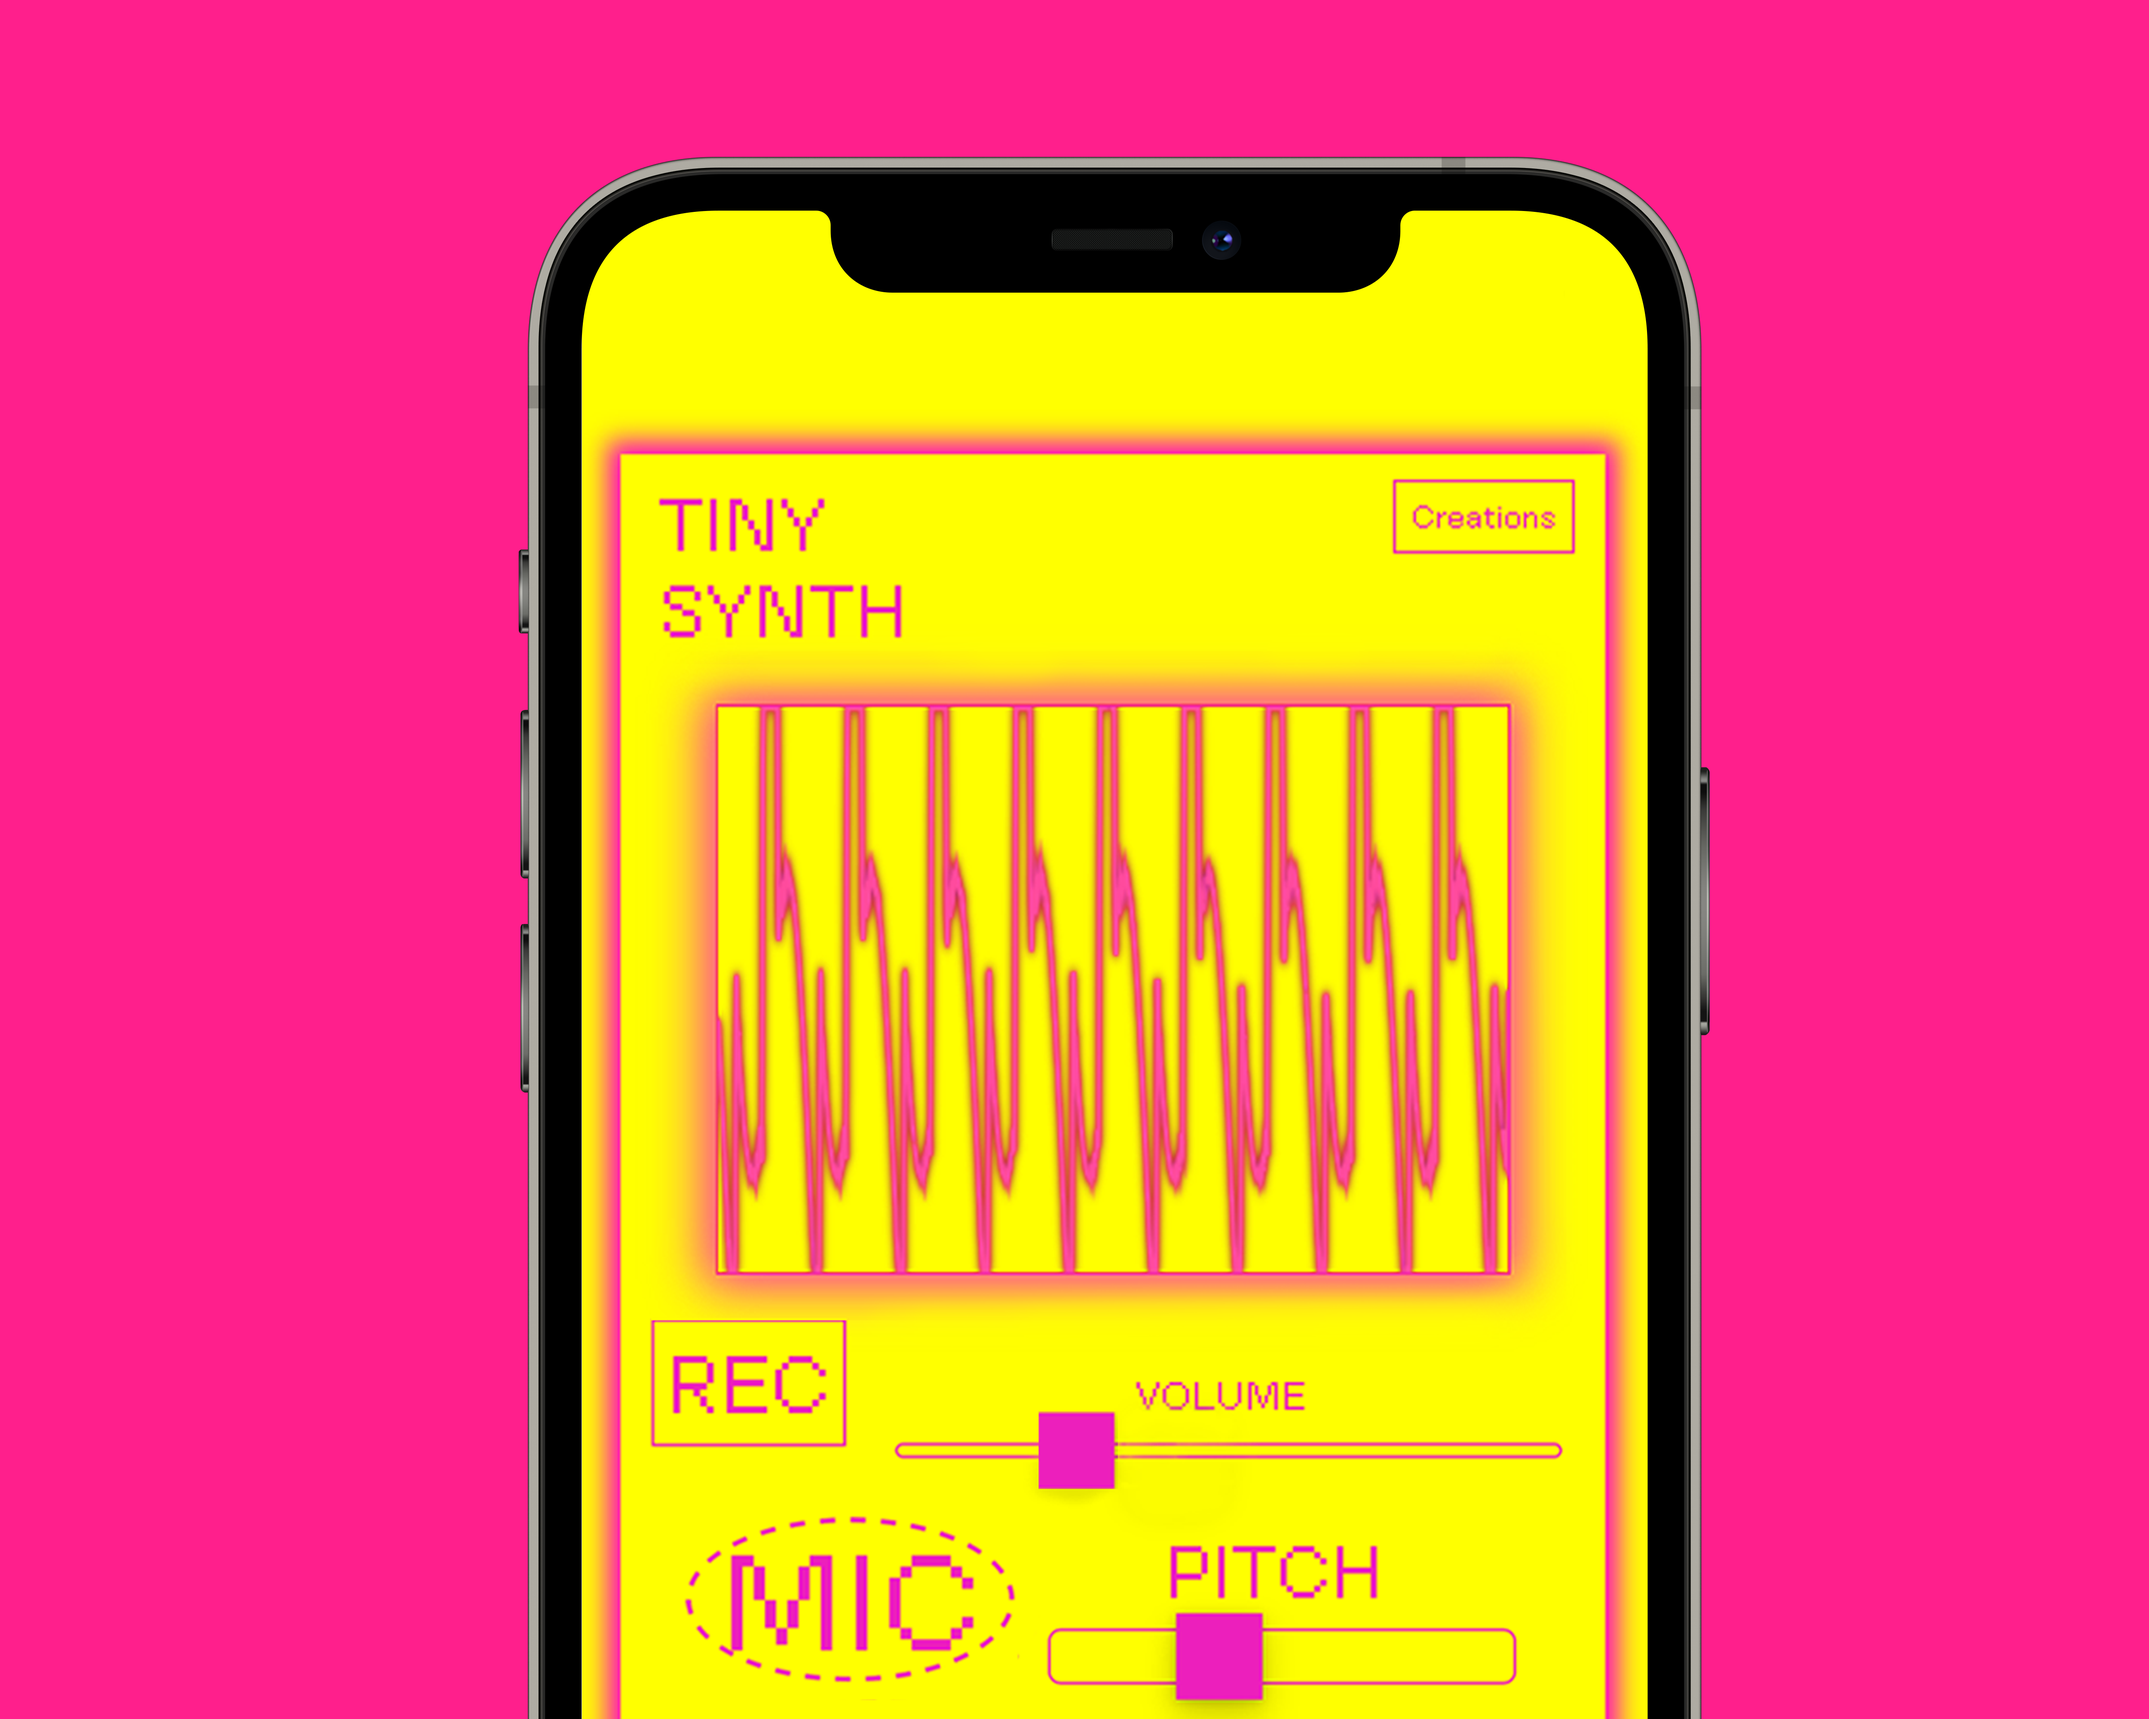
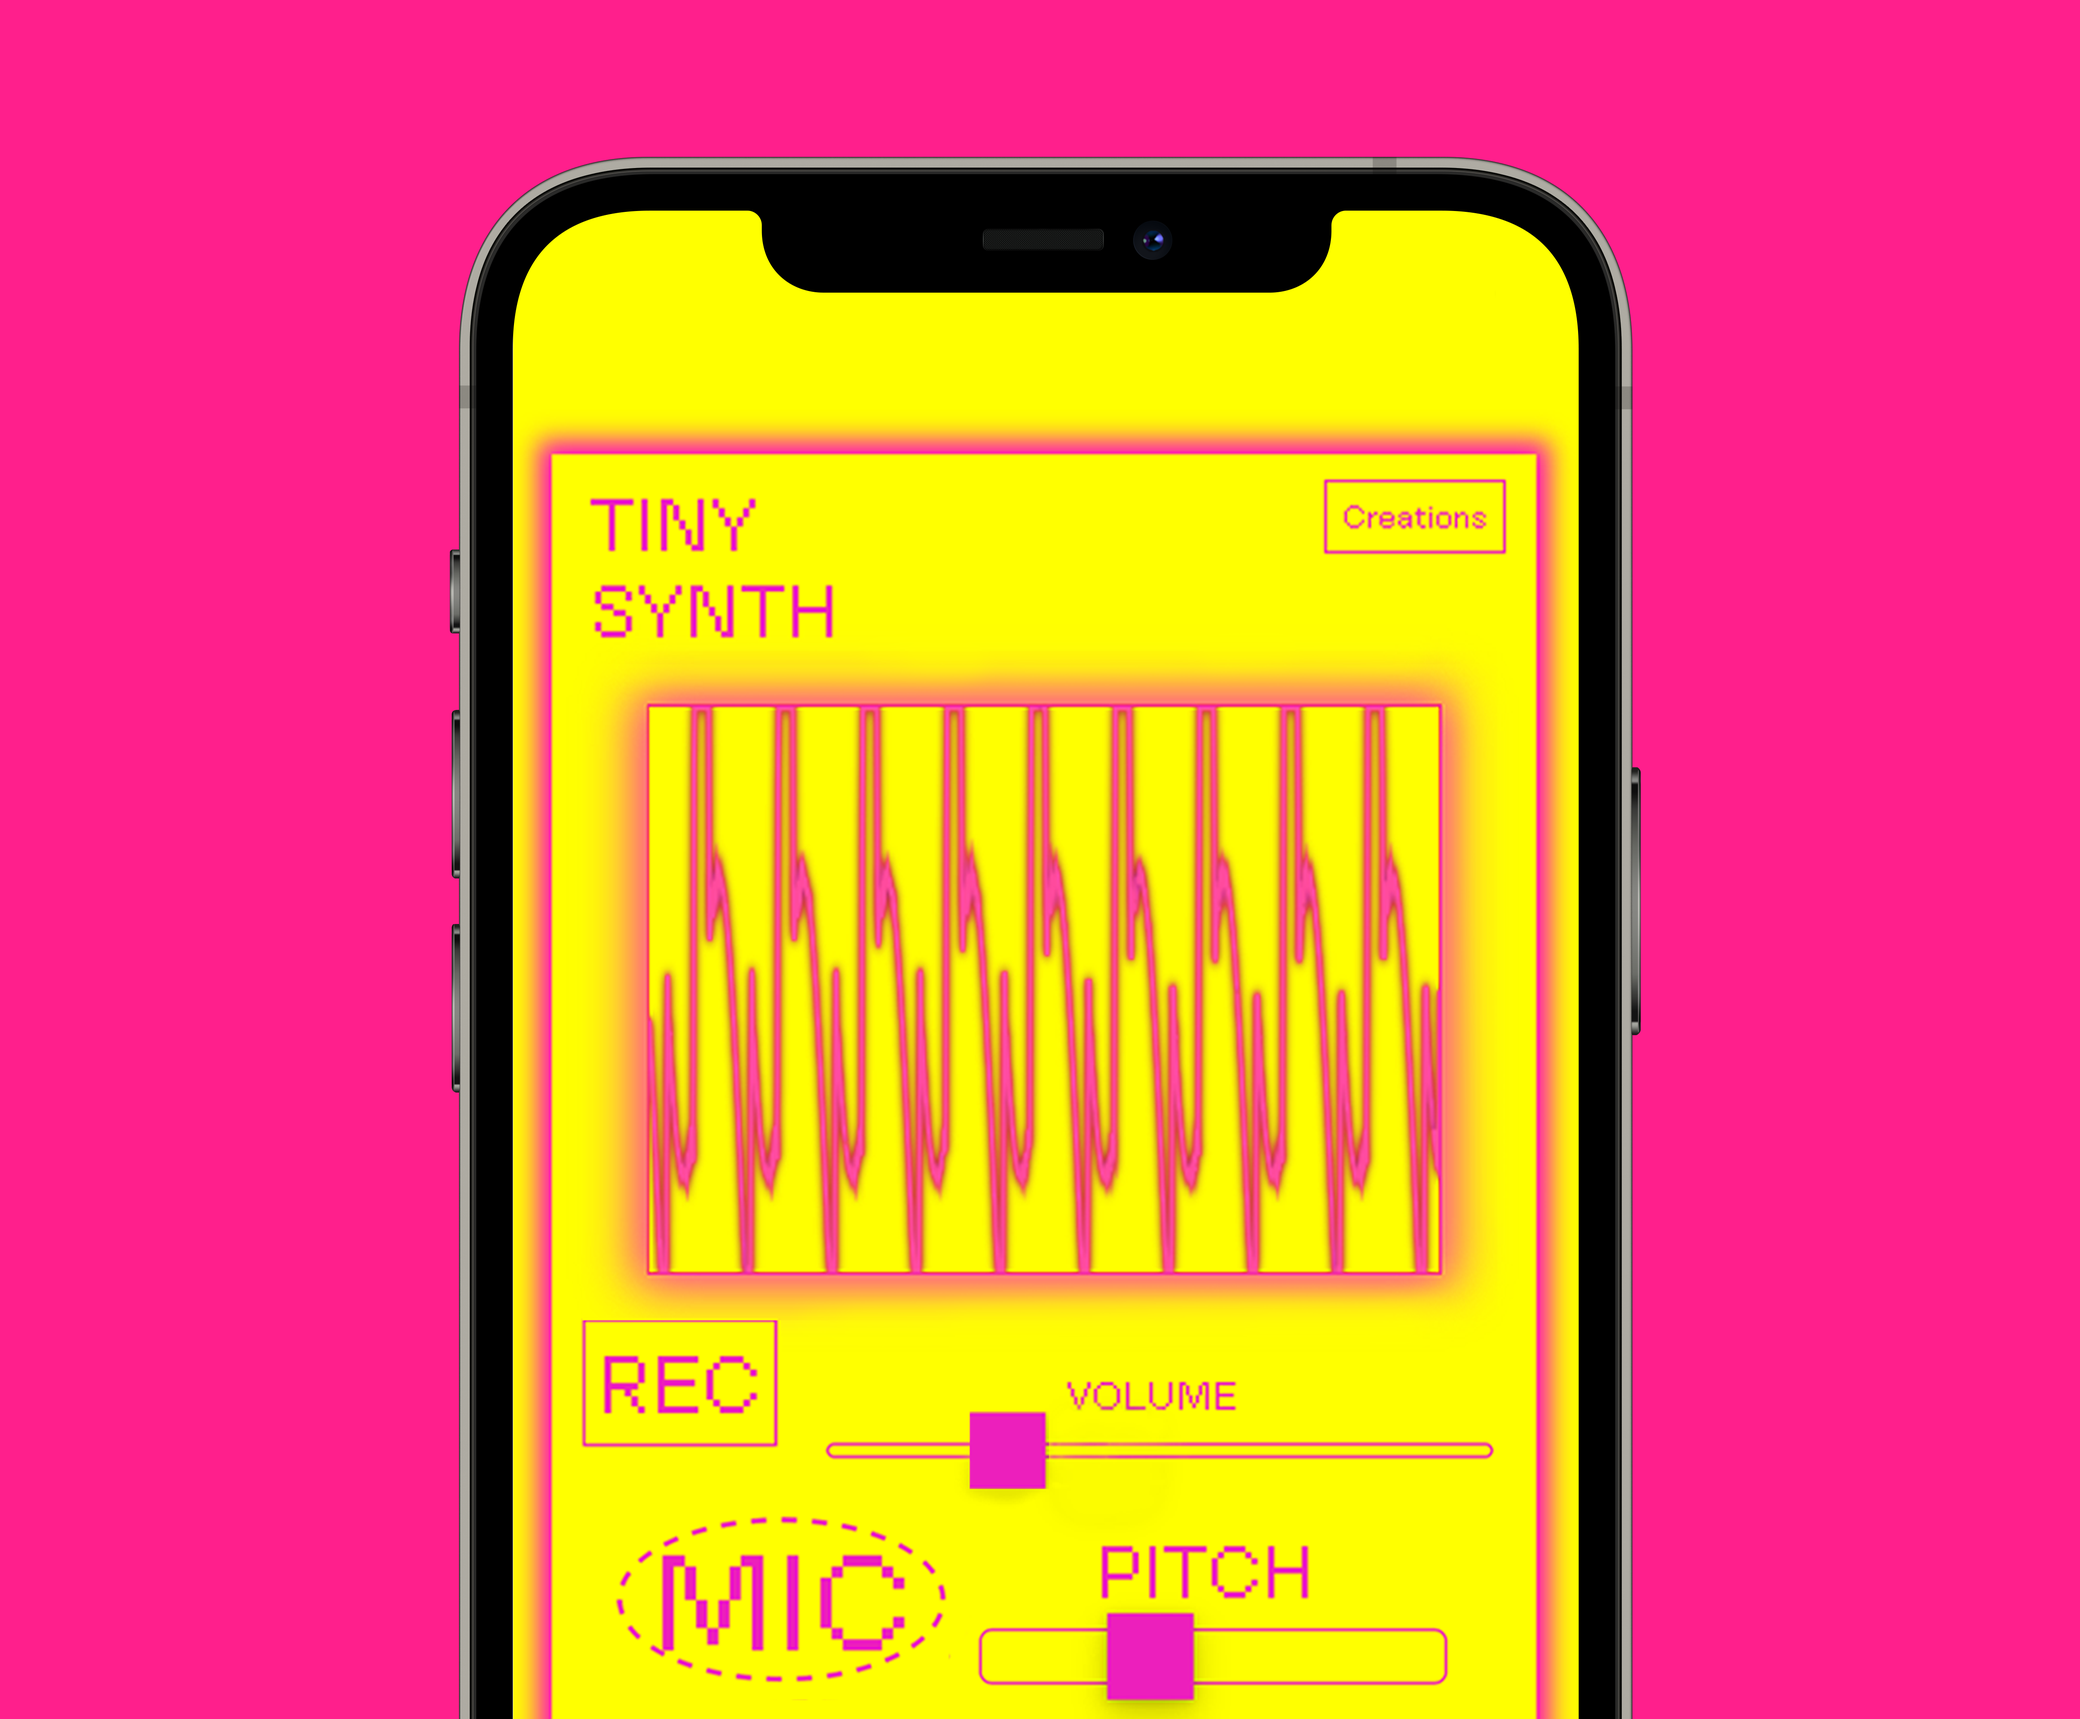
ds

diff --git a/synth.html b/synth.html
@@ -40,9 +40,9 @@
  
         <img class="img-item" src="synth mockup.png" alt="GIF 1">
         <img class="img-item" src="close up of web app.png" alt="GIF 1">
+        <img class="img-item" src="synth mockup1.png" alt="GIF 1"> 
                 <img class="img-item" src="mockup phone.png" alt="GIF 1"> 
-
-       
+ 
 
          
               </div>
